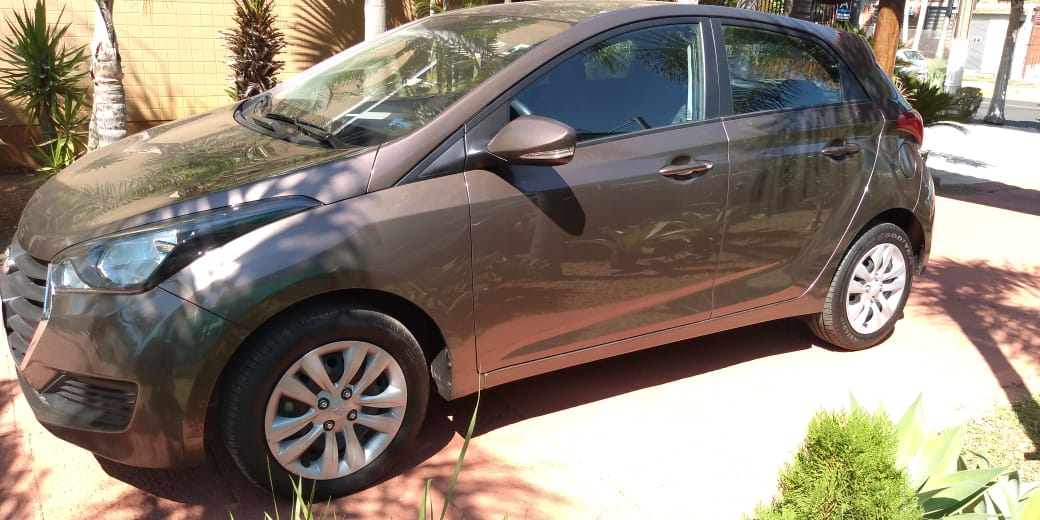
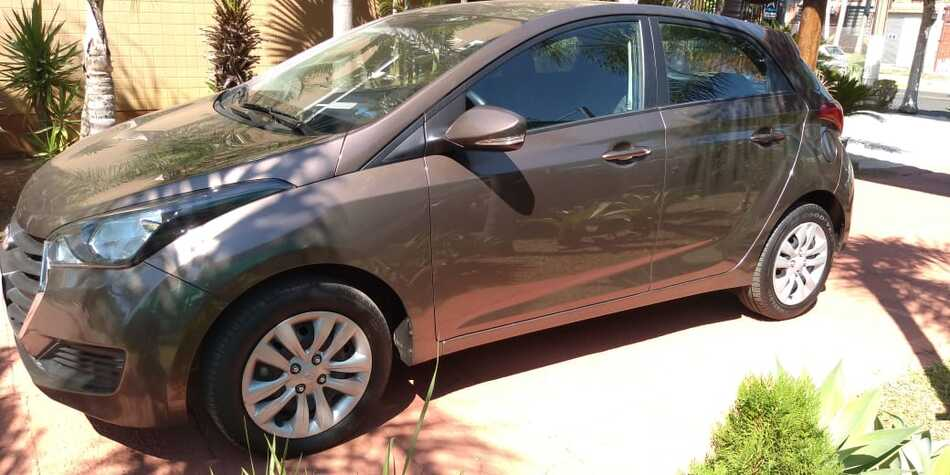
Compress images

diff --git a/src/pages/sobre-nos.js b/src/pages/sobre-nos.js
@@ -4,10 +4,13 @@ import { Seo } from "../components/seo"
 import { Layout } from "../components/Layout"
 import { AboutUs } from "../components/about-us"
 
-export default function () {
+export default function AboutUsPage() {
     return (
         <Layout>
-            <Seo title="Sobre nós" description="Temos uma equipe de profissionais especializados, um excelente atendimento e nossos veículos passam por uma cuidadosa revisão e são entregues com a garantia que você procura." />
+            <Seo
+                title="Sobre nós"
+                description="Temos uma equipe de profissionais especializados, um excelente atendimento e nossos veículos passam por uma cuidadosa revisão e são entregues com a garantia que você procura."
+            />
 
             <AboutUs />
         </Layout>

diff --git a/src/components/Menu/index.jsx b/src/components/Menu/index.jsx
@@ -9,14 +9,16 @@ import * as S from "./styled"
 export function Menu() {
     return (
         <S.MenuWrapper>
-            <li>
-                <Link
-                    activeStyle={{ color: "var(--primaryColor)" }}
-                    to="/sobre-nos"
-                >
-                    Sobre nós
-                </Link>
-            </li>
+            <ul>
+                <li>
+                    <Link
+                        activeStyle={{ color: "var(--primaryColor)" }}
+                        to="/sobre-nos/"
+                    >
+                        Sobre nós
+                    </Link>
+                </li>
+            </ul>
             <Social />
         </S.MenuWrapper>
     )

diff --git a/src/html.js b/src/html.js
@@ -19,7 +19,7 @@ export default function HTML(props) {
                     crossorigin
                 />
                 <link
-                    href="https://fonts.googleapis.com/css2?family=Roboto:wght@400;700;900&display=swap"
+                    href="https://fonts.googleapis.com/css2?family=Roboto:wght@400;700;900"
                     rel="stylesheet"
                 />
                 {props.headComponents}

diff --git a/src/components/Footer/styled.js b/src/components/Footer/styled.js
@@ -26,10 +26,10 @@ export const FooterWrapper = styled.footer`
 
     > p {
         margin-top: 24px;
-        opacity: .6;
 
         a {
-            color: var(--yellow-100);
+            color: var(--dark-100);
+            font-weight: 700;
         }
     }
 

diff --git a/src/components/LastCars/styled.js b/src/components/LastCars/styled.js
@@ -69,7 +69,7 @@ export const CarBody = styled.div`
 
     span {
         display: inline-block;
-        color: var(--dark-100);
+        color: var(--dark-500);
         font-size: 14px;
         line-height: 1.45;
     }
